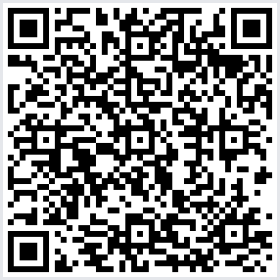
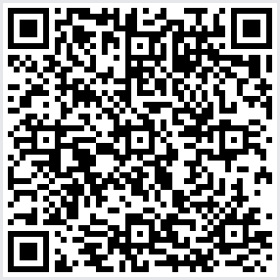
ajustando pagamento

diff --git a/src/components/Authenticated/Pagamentos.js b/src/components/Authenticated/Pagamentos.js
@@ -188,23 +188,23 @@ const PaymentPage = () => {
 
       <CardsGrid>
         <Card>
-          <CardTitle>Inscrição sem Camisa R$ 50,00</CardTitle>
+          <CardTitle>Inscrição sem Camisa R$ 55,00</CardTitle>
           <QRImage src="/qrcode50.png" alt="QR Code Inscrição sem Camisa" />
           <Label>PIX Copia e Cola</Label>
           <PixInput
             readOnly
-            value="00020126430014BR.GOV.BCB.PIX012117ceu.ceerj@gmail.com520400005303986540550.005802BR5901N6001C6212050835CONMEL63049284"
+            value="00020126430014BR.GOV.BCB.PIX012117ceu.ceerj@gmail.com520400005303986540555.005802BR5901N6001C62120508CONMEL5563041B38"
             onFocus={(e) => e.target.select()}
           />
         </Card>
 
         <Card>
-          <CardTitle>Inscrição com Camisa R$ 75,00</CardTitle>
+          <CardTitle>Inscrição com Camisa R$ 80,00</CardTitle>
           <QRImage src="/qrcode75.png" alt="QR Code Inscrição com Camisa" />
           <Label>PIX Copia e Cola</Label>
           <PixInput
             readOnly
-            value="00020126360014BR.GOV.BCB.PIX0114+5521992733029520400005303986540575.005802BR5920Valeria Cid Carvalho6014Rio de Janeiro62070503***6304252B"
+            value="00020126720014BR.GOV.BCB.PIX0150Pix Copia-e-cola: 00020126430014BR.GOV.BCB.PIX0121520400005303986540580.005802BR5901N6001C62120508CONMEL80630436DD"
             onFocus={(e) => e.target.select()}
           />
         </Card>
